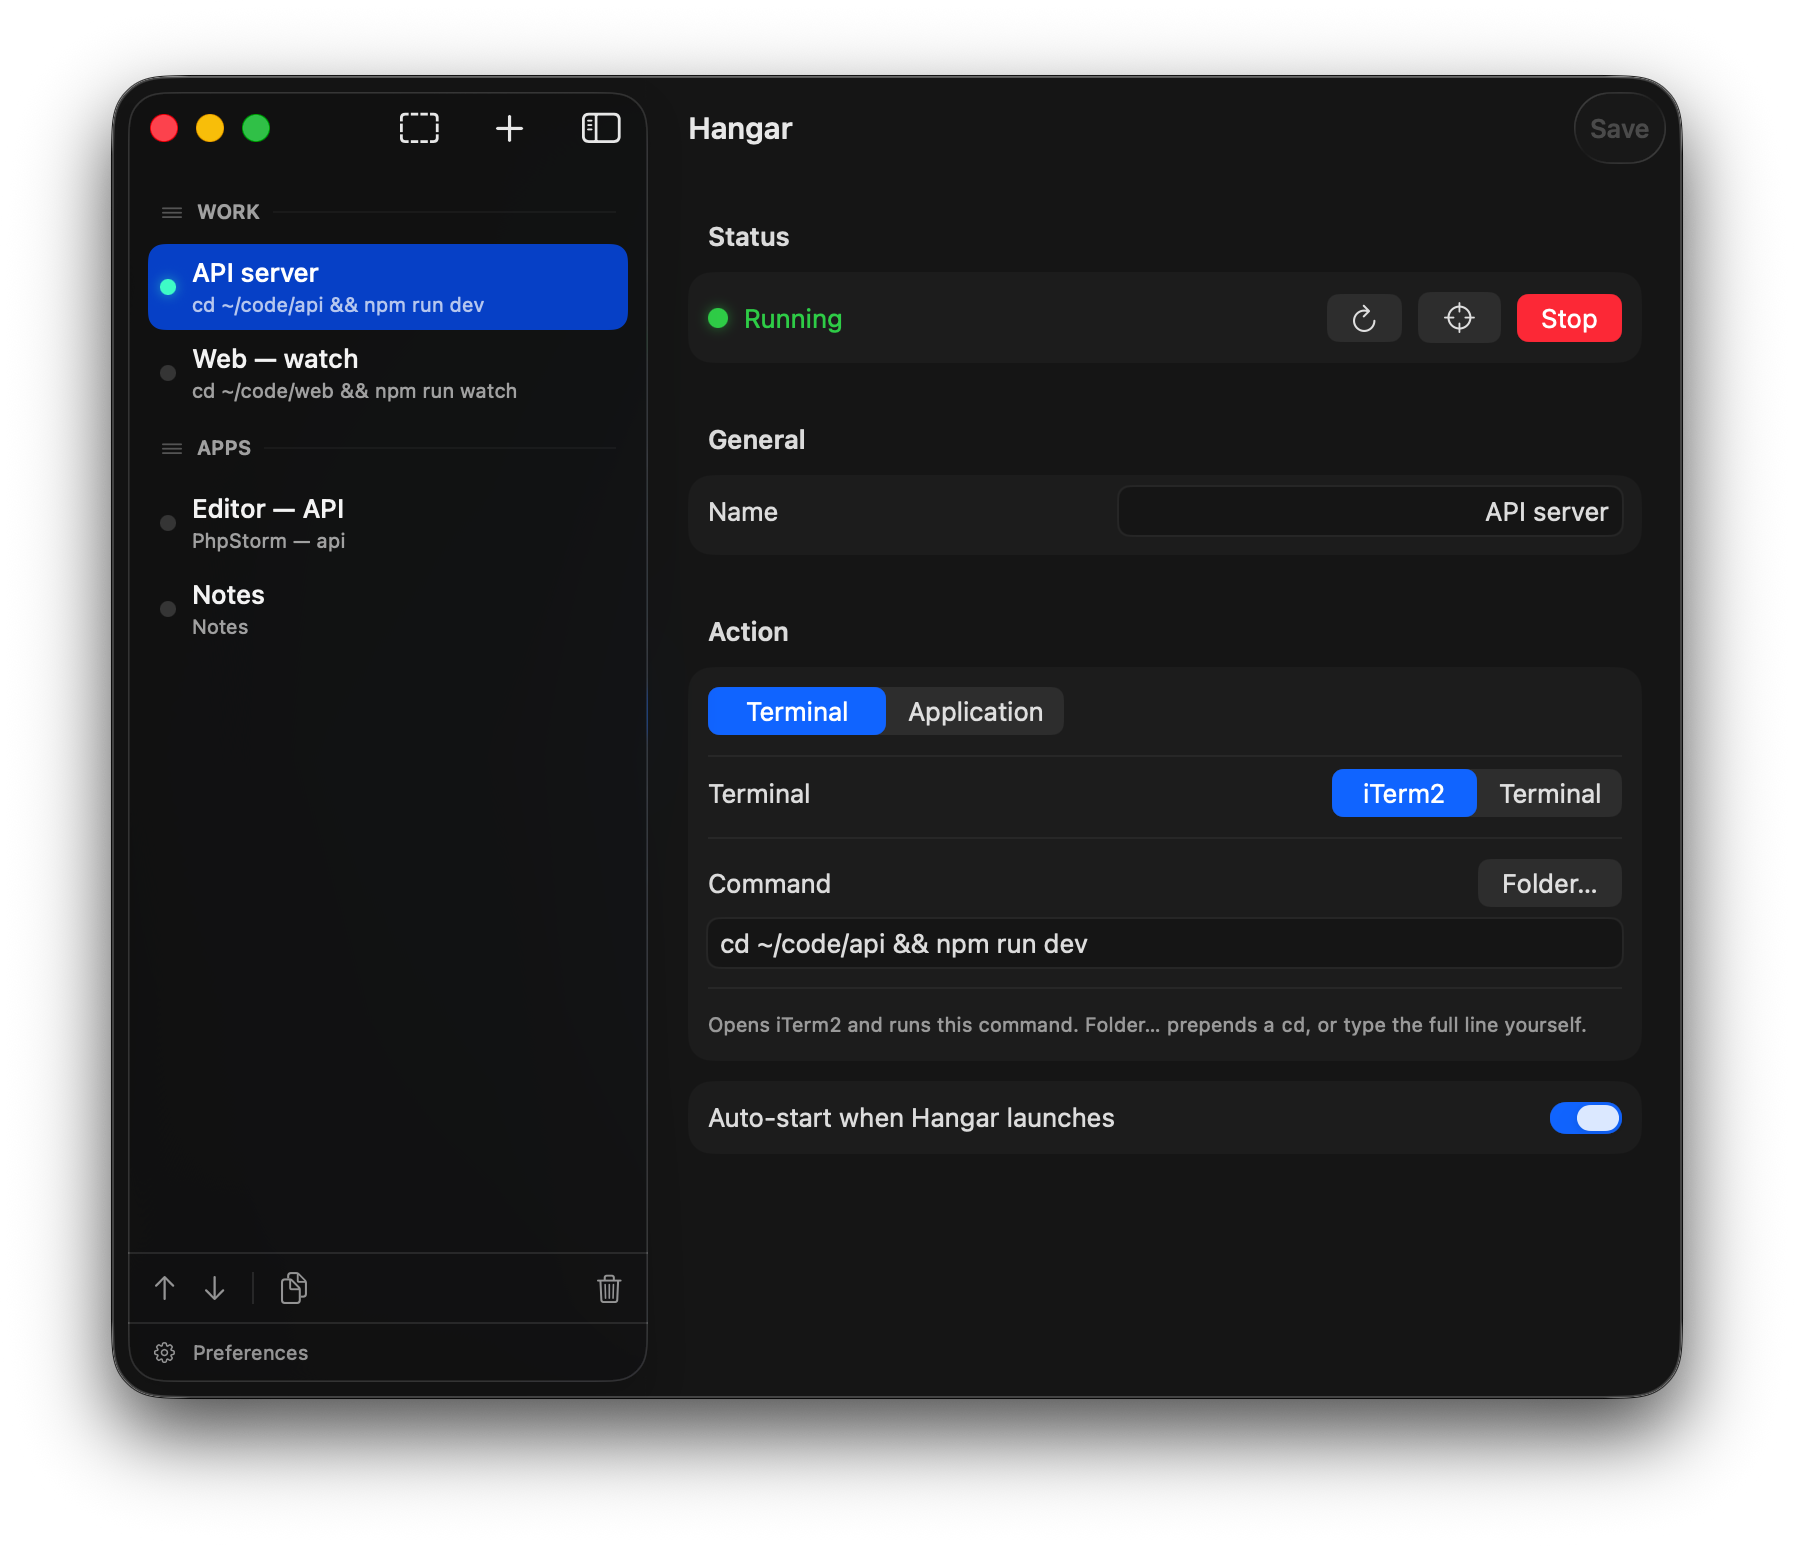
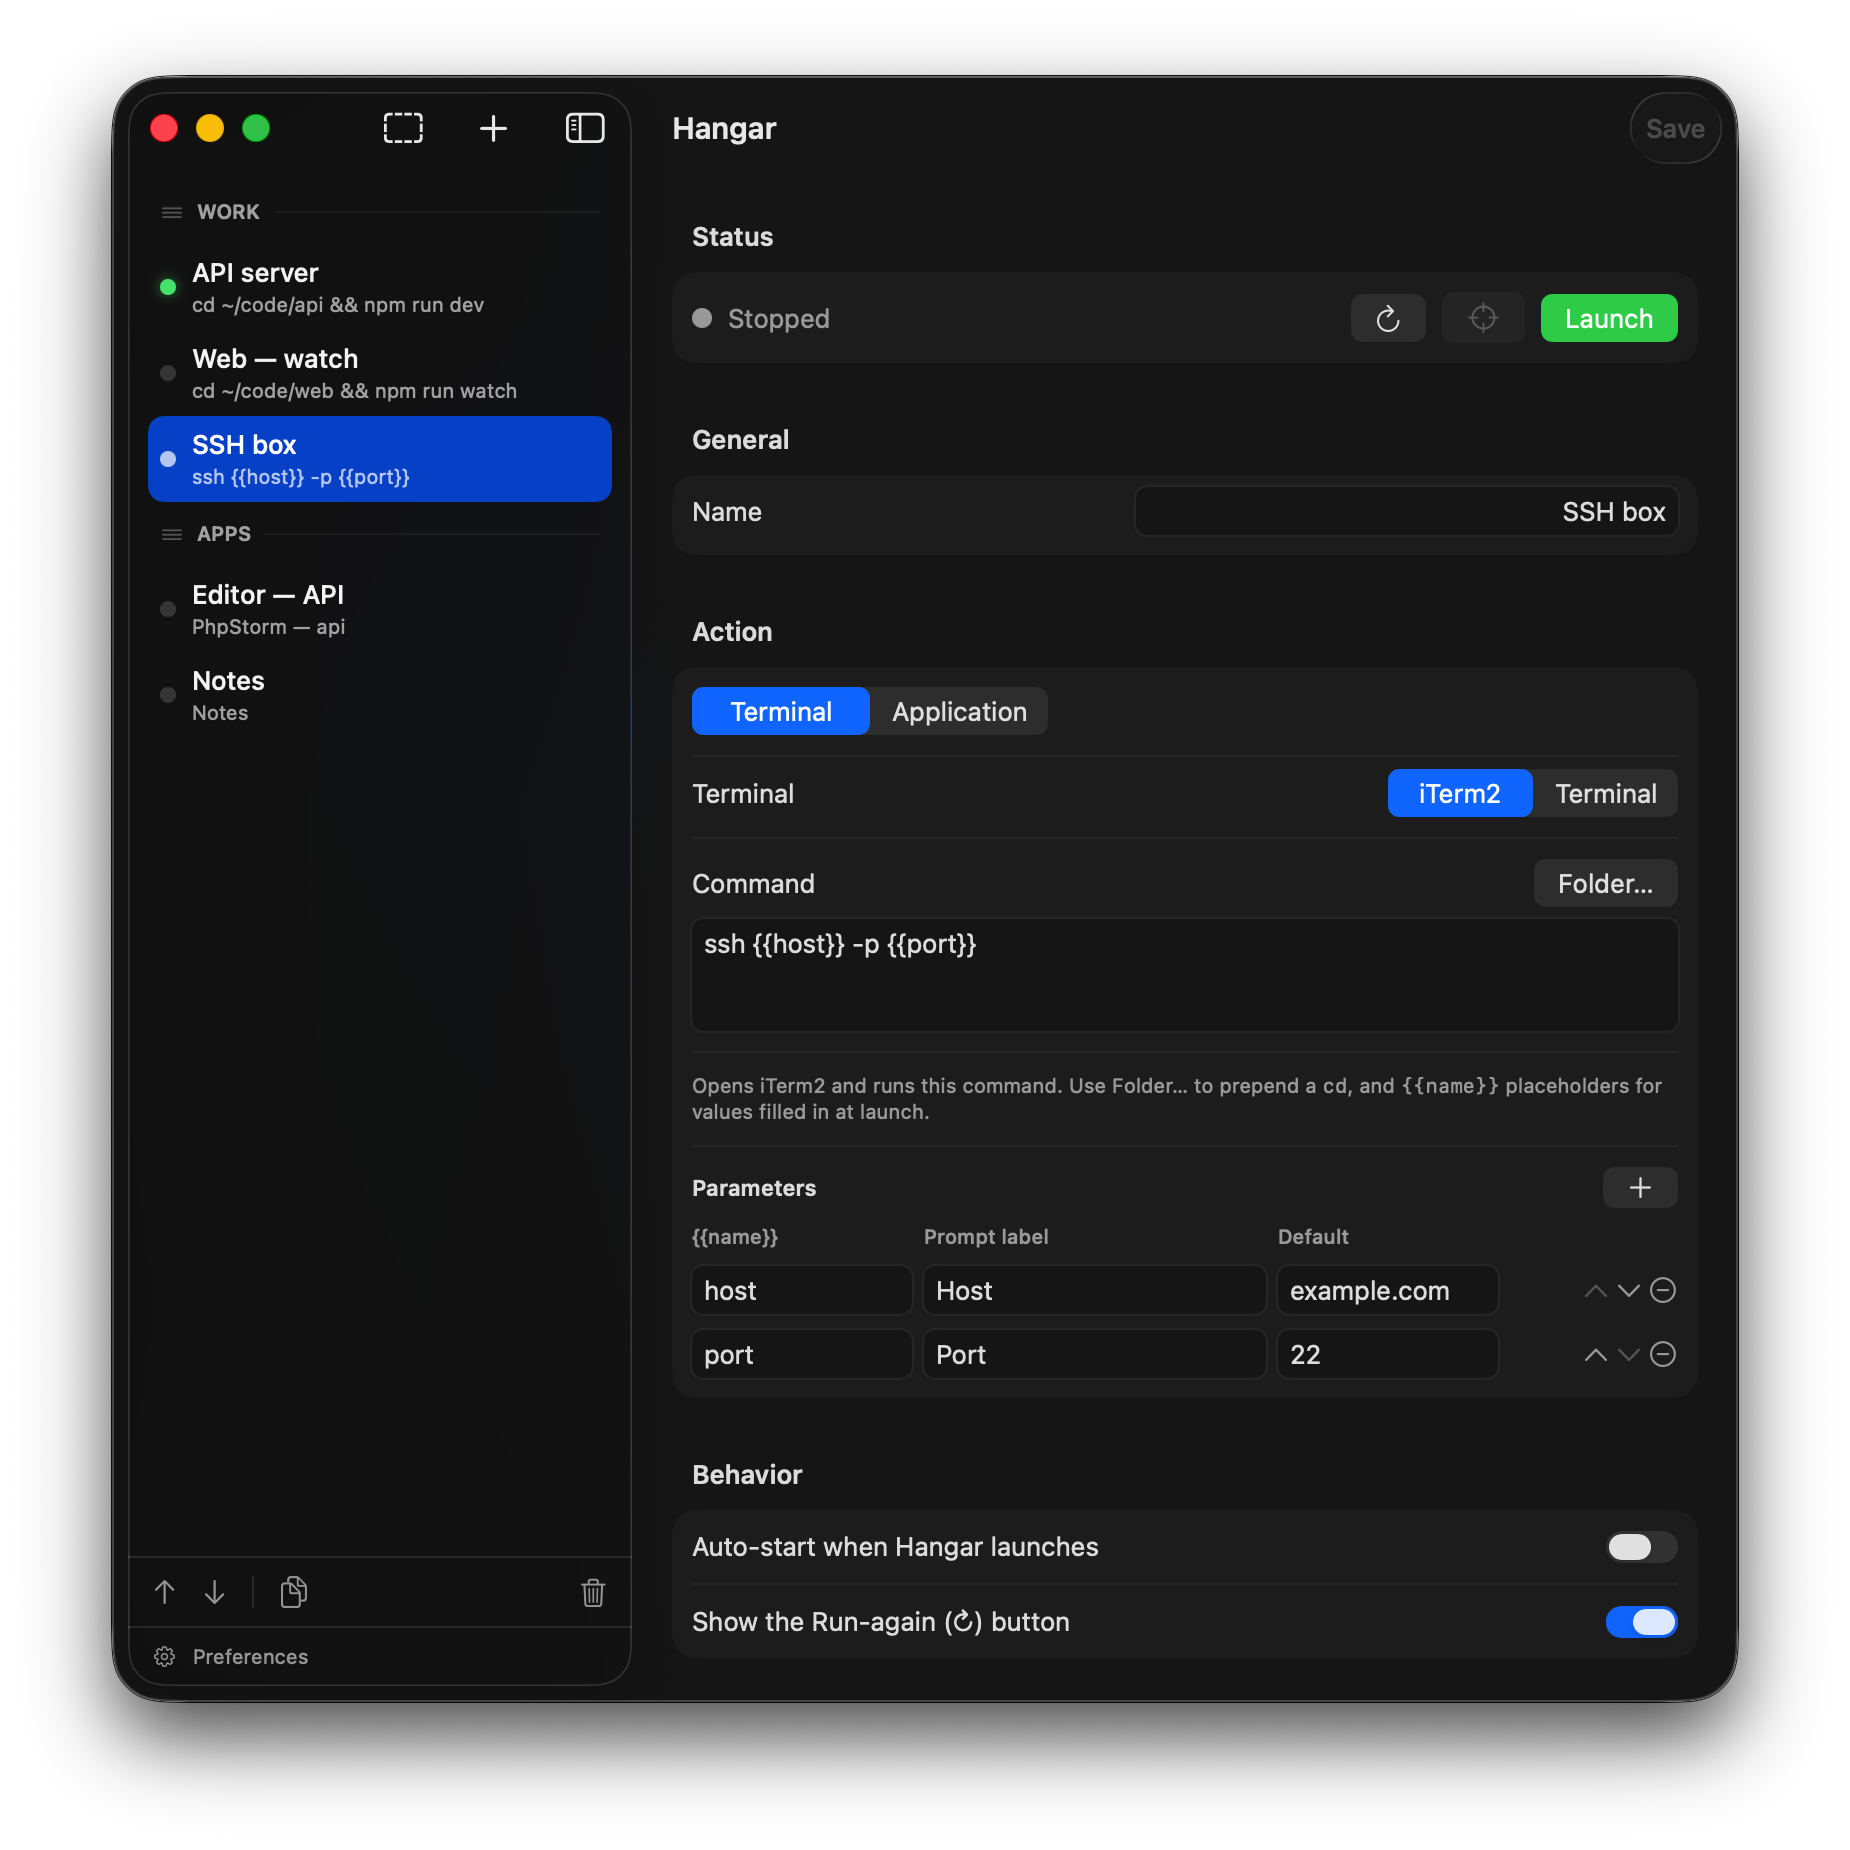
docs: refresh screenshots for v1.1.0 (parameters, new editor)

diff --git a/README.md b/README.md
@@ -3,10 +3,13 @@
 A lightweight macOS menu bar app that turns your terminal workflows into one-click, toggleable snippets. No electron, no bloat — native Swift and AppKit.
 
 <p align="center">
-  <img src=".github/menu.png" width="45%" alt="Menu bar popover with grouped snippets, status dots, and per-group toggles">
+  <img src=".github/menu.png" width="45%" alt="Menu bar popover with grouped snippets, status dots, and per-snippet toggles">
 </p>
 <p align="center">
-  <img src=".github/settings.png" width="80%" alt="Snippet editor showing a terminal snippet with its command, status, and the grouped sidebar">
+  <img src=".github/settings.png" width="80%" alt="Snippet editor: a parameterized terminal command, the Parameters table, and the grouped sidebar">
+</p>
+<p align="center">
+  <img src=".github/params.png" width="55%" alt="Launch-time prompt asking for a snippet's parameters, with a live command preview">
 </p>
 
 ## Why?